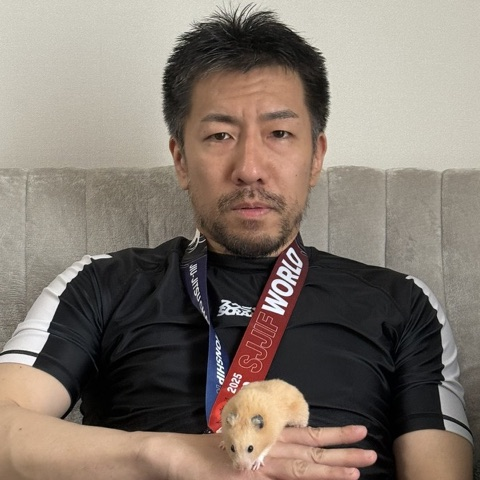
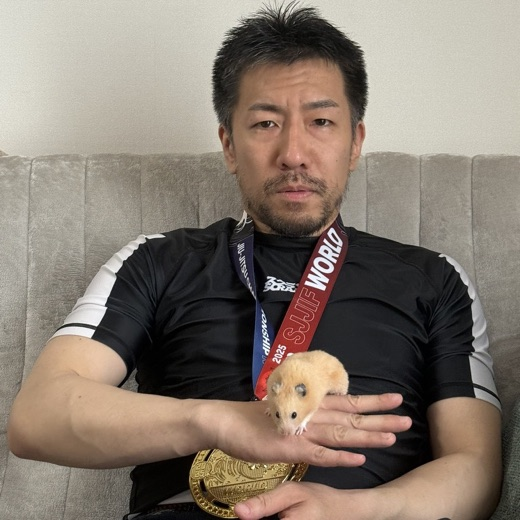
プロフィール写真に金メダルが入るよう切り出し範囲を修正
下部が切れてメダルが消えていたため、横幅いっぱいの正方形で切り直した。
メダルが欠けないよう、円形から角丸の正方形に変更し、サイズも少し拡大した。

diff --git a/assets/css/style.css b/assets/css/style.css
@@ -143,9 +143,9 @@ a:hover {
 
 .hero-photo {
     flex-shrink: 0;
-    width: 240px;
-    height: 240px;
-    border-radius: 50%;
+    width: 260px;
+    height: 260px;
+    border-radius: 28px;
     object-fit: cover;
     border: 2px solid rgba(94, 234, 212, 0.35);
     box-shadow: 0 0 0 8px rgba(94, 234, 212, 0.08), var(--shadow);
@@ -619,8 +619,9 @@ section.panel.is-visible {
 
     .hero-photo {
         order: -1;
-        width: 128px;
-        height: 128px;
+        width: 140px;
+        height: 140px;
+        border-radius: 20px;
     }
 
     .work-card {

diff --git a/index.html b/index.html
@@ -37,7 +37,7 @@
                 <a href="#resume" class="btn btn-ghost">職務経歴を見る</a>
             </div>
         </div>
-        <img class="hero-photo" src="assets/img/profile.jpg" width="240" height="240" alt="プロフィール写真（Kazunobu Yoshikawa）">
+        <img class="hero-photo" src="assets/img/profile.jpg" width="260" height="260" alt="プロフィール写真（Kazunobu Yoshikawa）">
     </div>
 </div>
 
